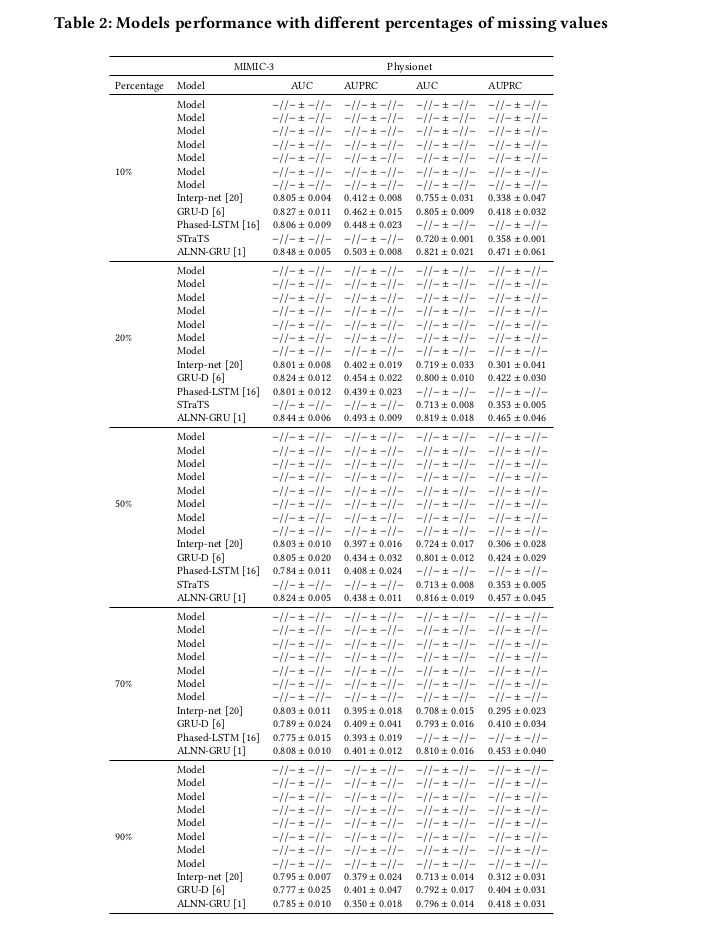
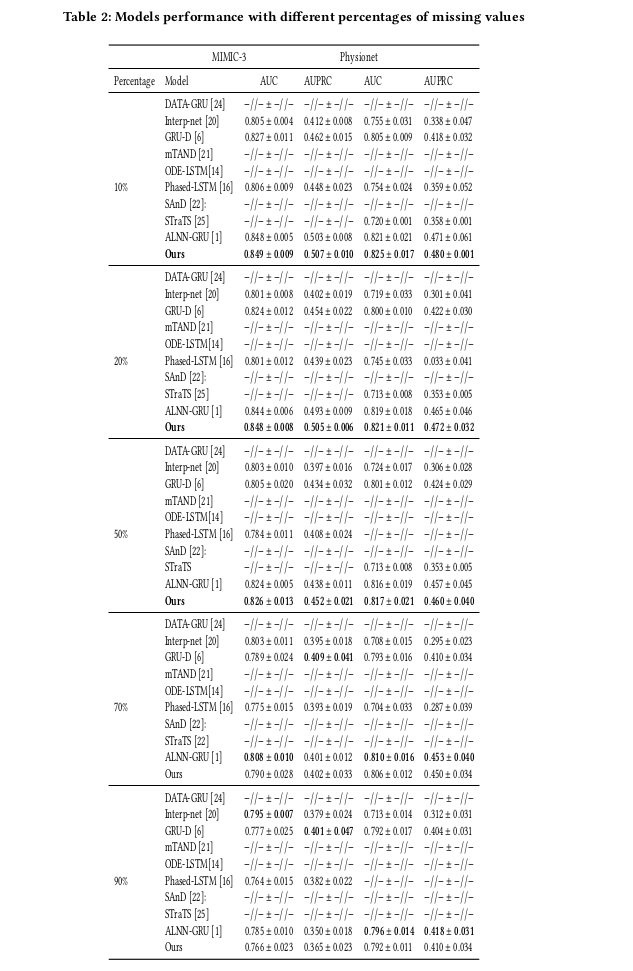
table of results added

diff --git a/README.md b/README.md
@@ -4,6 +4,9 @@ Alignement driven neural network with data-driven imputation.
 # Architecture
 ![](assets/architecture.jpg)
 
+# Results
+![](assets/results.png)
+
 # Models performance with different percentages of missing values
 ![](assets/control_experiment.png)
 
